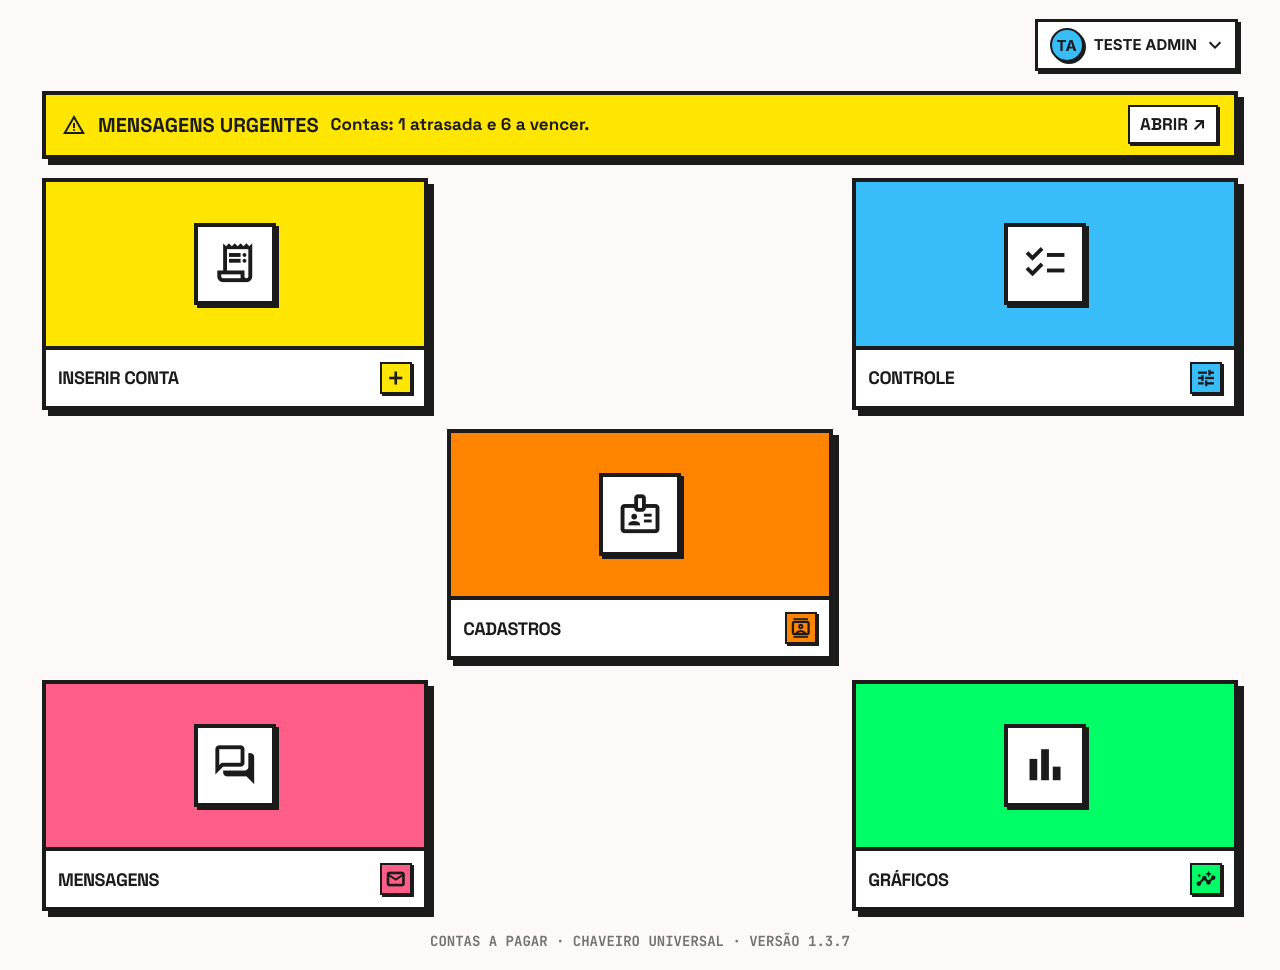
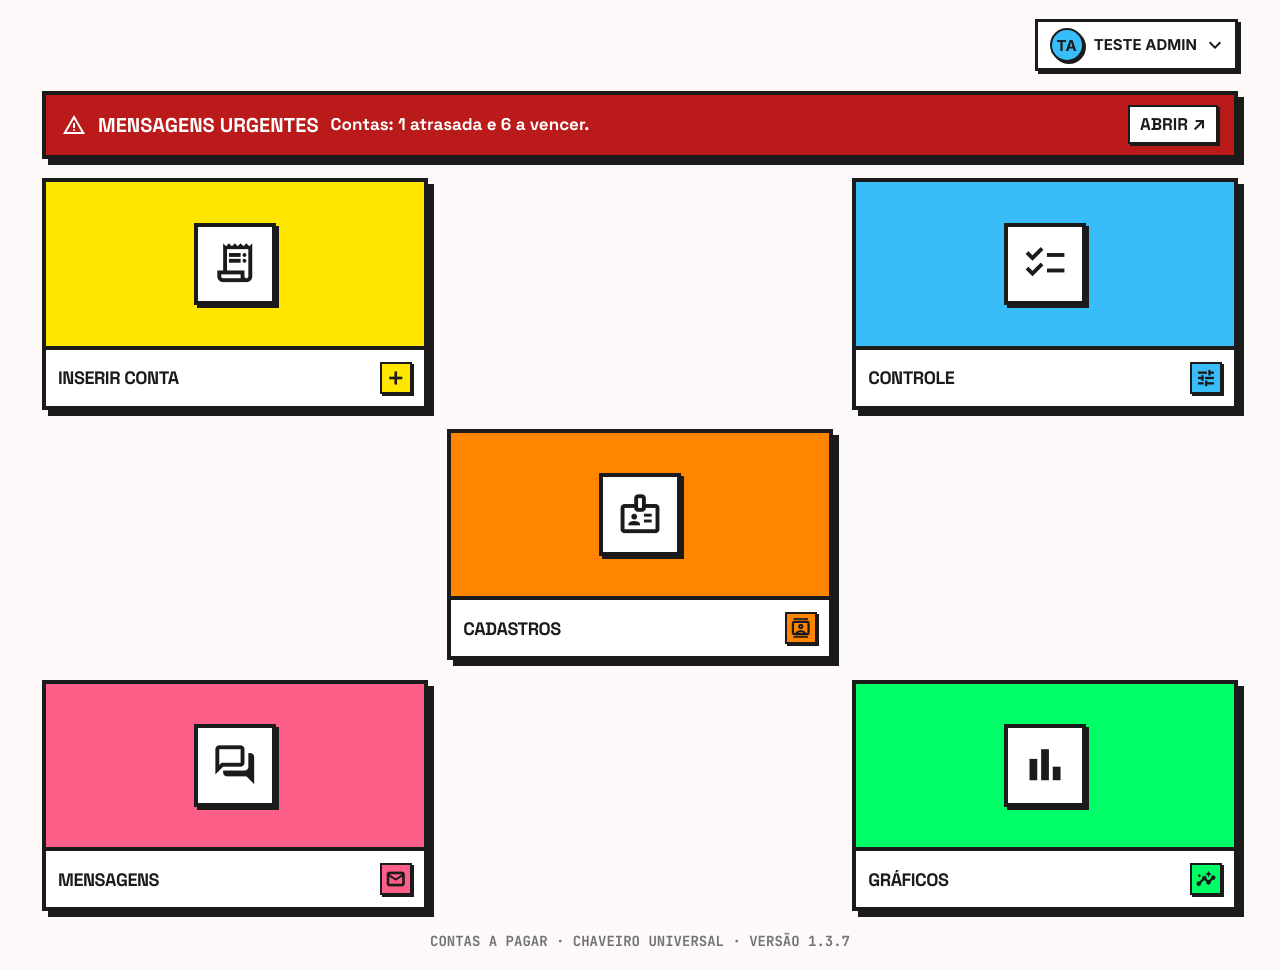
fix: faixa MENSAGENS URGENTES fica vermelha (nao rosa) quando ha conta atrasada; amarela nos outros casos
Claude-Session: https://claude.ai/code/session_01NUq2fGscdhbEodN3JA1uYc

Changed region(s): [[0.0312, 0.0928, 0.9688, 0.1856]]

diff --git a/desktop/smoke.js b/desktop/smoke.js
@@ -1978,7 +1978,7 @@ async function executar() {
   await js("document.getElementById('btn-fechar-mensagens').click()");
   teste("Menu: FECHAR recolhe em MENSAGENS URGENTES", await esperarPredicado("document.body.dataset.mensagensExpandidas === undefined && document.getElementById('mensagens-recolhidas').offsetHeight > 0", 3000));
   await js("document.getElementById('mensagens-recolhidas').click()");
-  teste("Menu: faixa MENSAGENS URGENTES sempre amarela (mesmo com conta atrasada)", await js("getComputedStyle(document.getElementById('mensagens-recolhidas')).backgroundColor === 'rgb(255, 230, 0)'"),
+  teste("Menu: faixa MENSAGENS URGENTES vermelha com conta atrasada (não rosa)", await js("getComputedStyle(document.getElementById('mensagens-recolhidas')).backgroundColor === 'rgb(186, 26, 26)'"),
     await js("getComputedStyle(document.getElementById('mensagens-recolhidas')).backgroundColor"));
   teste("Menu: clicar em MENSAGENS URGENTES abre de novo", await esperarPredicado("document.body.dataset.mensagensExpandidas === 'true'", 3000));
   // clicar numa conta da mensagem = abre o Controle com ela selecionada (pedido 2026-11-25)

diff --git a/frontend/css/tailwind.input.css b/frontend/css/tailwind.input.css
@@ -1170,7 +1170,9 @@
 .mensagens-recolhidas strong { flex: 0 0 auto; font-size: 1.25rem; text-transform: uppercase; }
 .mensagens-recolhidas__resumo { flex: 1 1 auto; min-width: 0; font-weight: 700; overflow: hidden; text-overflow: ellipsis; white-space: nowrap; }
 .mensagens-recolhidas__abrir { flex: 0 0 auto; padding: 0.3rem 0.65rem; background: #ffffff; border: 2px solid #1c1b1b; box-shadow: 2px 2px 0 0 #1c1b1b; font-weight: 700; text-transform: uppercase; }
-/* faixa SEMPRE amarela, mesmo com conta atrasada (pedido do usuario, 2026-11-26: antes ficava rosa) */
+/* conta atrasada: faixa VERMELHA, letras brancas (pedido do usuario, 2026-11-26: antes era rosa); sem atraso, amarela */
+.mensagens-recolhidas--atrasada { background: #ba1a1a; color: #ffffff; }
+.mensagens-recolhidas--atrasada .mensagens-recolhidas__abrir { color: #1c1b1b; }
 .mensagens-recolhidas:hover .mensagens-recolhidas__abrir { background: #1c1b1b; color: #ffffff; }
 .mensagens-recolhidas:focus-visible { outline: 3px solid #2165ef; outline-offset: 2px; }
 

diff --git a/docs/decisoes.md b/docs/decisoes.md
@@ -294,5 +294,5 @@ A ordem de autoridade das fontes é: **design** = Stitch (`docs/stitch/`), **req
 - E-mail nunca em MAIÚSCULAS: campo do cadastro de empresa e do "Alterar um campo" mostram em minúsculas (`inputmode="email"`/`type="email"` → `text-transform: lowercase`), e o servidor grava o e-mail da empresa em minúsculas.
 - Formulários de Empresa, Banco e Pagador: CANCELAR / ETAPA ANTERIOR à esquerda, SALVAR (e PRÓXIMA ETAPA) na extrema direita.
 
-## 2026-11-26 — Faixa MENSAGENS URGENTES sempre amarela
-- Com conta atrasada ela ficava rosa (`.mensagens-recolhidas--atrasada`); pedido do usuário: sempre amarela. O ícone de alerta continua indicando atraso.
+## 2026-11-26 — Faixa MENSAGENS URGENTES: amarela, ou VERMELHA com conta atrasada
+- Antes ficava rosa com conta atrasada. Pedido do usuário: sem atraso = amarela; com conta atrasada = vermelha (#ba1a1a, letras brancas), nunca rosa.
